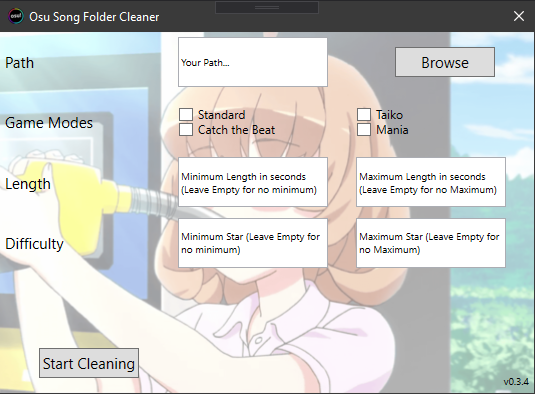
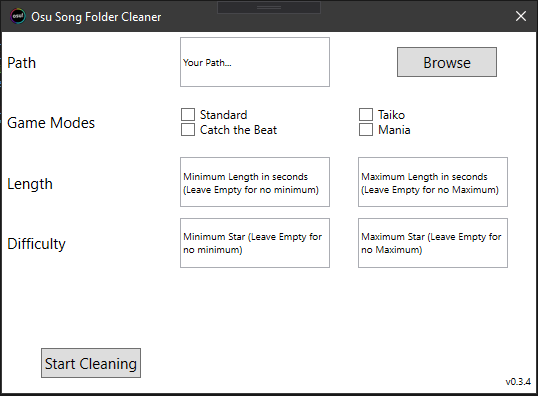
more screenshots

diff --git a/DeleteUnwantedBeatmaps/ProgressWindow.xaml b/DeleteUnwantedBeatmaps/ProgressWindow.xaml
@@ -7,9 +7,11 @@
         mc:Ignorable="d"
         Title="Progress" Height="200" Width="300" ResizeMode="NoResize">
     <StackPanel>
+        <!--
         <StackPanel.Background>
             <ImageBrush ImageSource="images/EromangaSenseiIrritated70op.png"/>
         </StackPanel.Background>
+        -->
         <!-- labels that tell the user the progress of the process -->
         <Label FontWeight="Bold" HorizontalAlignment="Center" Content="Deleting Folders."/>
         <Label FontWeight="Bold" HorizontalAlignment="Center" Content="This may take multiple Minutes..."/>

diff --git a/DeleteUnwantedBeatmaps/MainWindow.xaml b/DeleteUnwantedBeatmaps/MainWindow.xaml
@@ -37,9 +37,11 @@
     </Window.Resources>
     
     <Grid>
+        <!--
         <Grid.Background>
             <ImageBrush ImageSource="/images/GasolineIsTasty50op.png" Stretch="UniformToFill"/>
         </Grid.Background>
+        -->
         <Grid.ColumnDefinitions>
             <ColumnDefinition Width="*" />
             <ColumnDefinition Width="*" />
